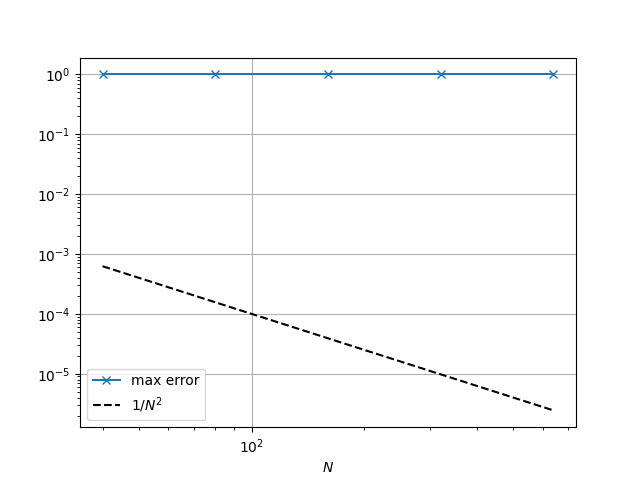
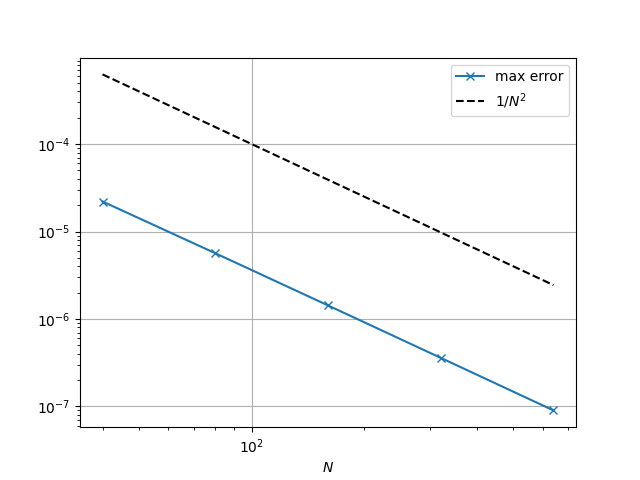
fixed code and graph

diff --git a/Homework 04-20251118/Poisson2D_bc_template.py b/Homework 04-20251118/Poisson2D_bc_template.py
@@ -252,7 +252,7 @@ if __name__ == '__main__':
     # 'poly': polynomial right-hand-side function
     # 'sin': sine right-hand-side function with zero bc
     # 'sin_bc': sine right-hand-side function with non-zero bc
-    testfunction = 'poly'
+    testfunction = 'sin_bc'
 
     # read in test problem:
     testproblem = get_testproblem(testfunction)
